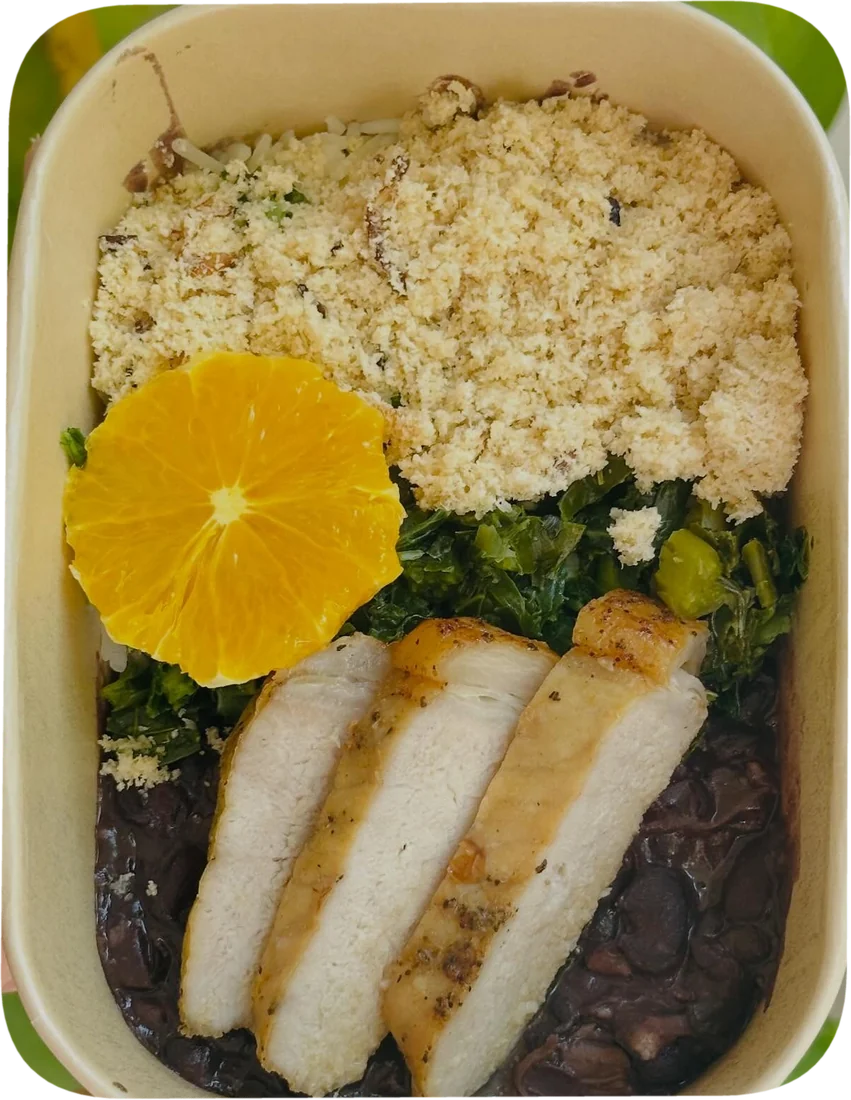
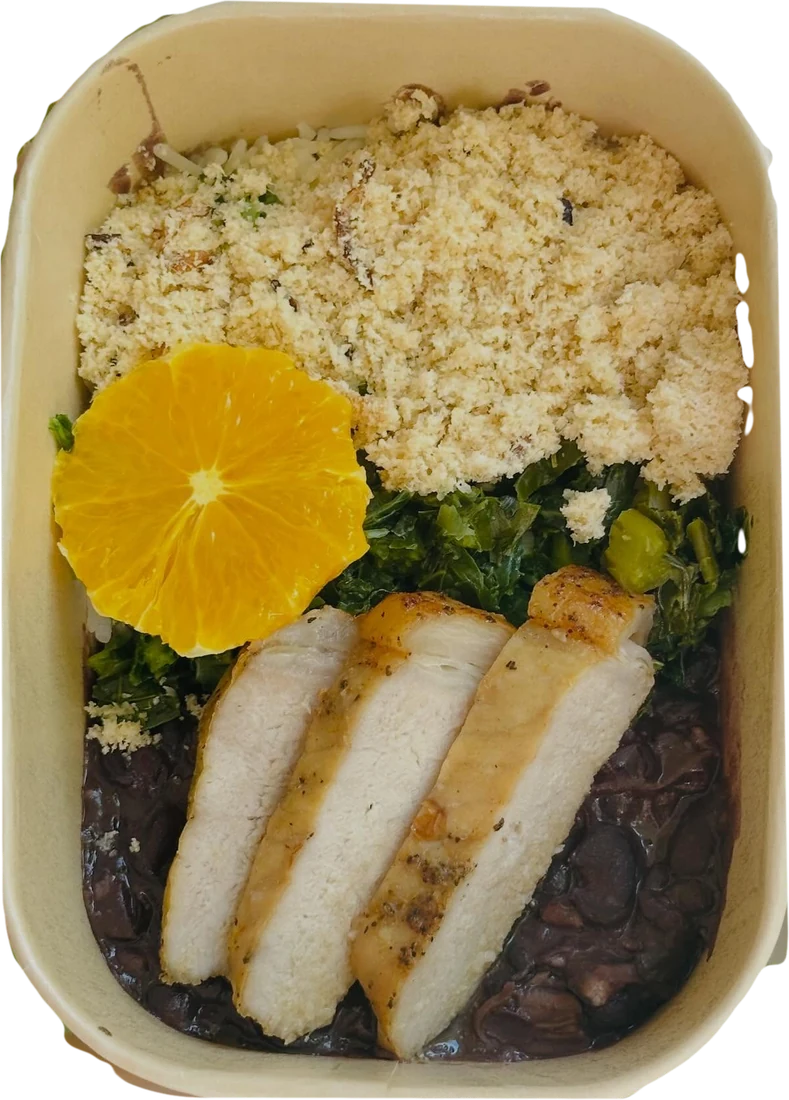
Brazilian Taste: clean cutout edges, lunch box rises from below the fold
Lunch box retraced with its real elliptical corners and a rim key that drops
leaf, hand and wall pixels. Tray and orange slice corners tightened. The lunch
box now starts below the screen and is dragged up onto the band edge instead
of appearing half-visible. Asset versions bumped so cached cutouts refresh.

diff --git a/websites/TruongSon-demos/scrollcraft/builds/brazilian-taste/index.html b/websites/TruongSon-demos/scrollcraft/builds/brazilian-taste/index.html
@@ -12,10 +12,10 @@
 <link rel="preconnect" href="https://fonts.googleapis.com">
 <link rel="preconnect" href="https://fonts.gstatic.com" crossorigin>
 <link href="https://fonts.googleapis.com/css2?family=Instrument+Serif:ital@0;1&family=Inter+Tight:wght@400;500;600&display=swap" rel="stylesheet">
-<link rel="preload" as="image" href="assets/cut-tray.webp">
+<link rel="preload" as="image" href="assets/cut-tray.webp?v=3">
 <link rel="preload" as="image" href="assets/126-bowls-overhead.jpg">
-<link rel="stylesheet" href="liquid-glass.css?v=2">
-<link rel="stylesheet" href="site.css?v=2">
+<link rel="stylesheet" href="liquid-glass.css?v=3">
+<link rel="stylesheet" href="site.css?v=3">
 </head>
 <body>
 <a class="skip" href="#close">Skip to ordering</a>
@@ -50,12 +50,12 @@
   <div class="tray" id="tray" aria-hidden="true">
     <div class="tray-shadow"></div>
     <div class="tray-drop"><div class="tray-tilt" id="trayTilt"><div class="tray-bob">
-      <img src="assets/cut-tray.webp" alt="" decoding="async">
+      <img src="assets/cut-tray.webp?v=3" alt="" decoding="async">
     </div></div></div>
   </div>
-  <div class="fruit f0" aria-hidden="true"><img src="assets/cut-orange.webp" alt="" decoding="async"></div>
-  <div class="fruit f1" aria-hidden="true"><img src="assets/cut-orange.webp" alt="" decoding="async"></div>
-  <div class="fruit f2" aria-hidden="true"><img src="assets/cut-orange.webp" alt="" decoding="async"></div>
+  <div class="fruit f0" aria-hidden="true"><img src="assets/cut-orange.webp?v=3" alt="" decoding="async"></div>
+  <div class="fruit f1" aria-hidden="true"><img src="assets/cut-orange.webp?v=3" alt="" decoding="async"></div>
+  <div class="fruit f2" aria-hidden="true"><img src="assets/cut-orange.webp?v=3" alt="" decoding="async"></div>
 
   <div class="hero-copy" id="heroCopy">
     <p class="quote">More time for what&nbsp;matters.</p>
@@ -110,7 +110,7 @@
       </ol>
     </div>
   </section>
-  <div class="lift" id="lift" aria-hidden="true"><div class="lift-sh"></div><img src="assets/cut-lunchbox.webp" alt="" decoding="async"></div>
+  <div class="lift" id="lift" aria-hidden="true"><div class="lift-sh"></div><img src="assets/cut-lunchbox.webp?v=3" alt="" decoding="async"></div>
 
   <!-- close -->
   <section class="close" id="close" aria-label="Order">
@@ -125,7 +125,7 @@
 
 <div class="spacer" id="spacer" aria-hidden="true"></div>
 
-<script src="liquid-glass.js?v=2" defer></script>
-<script src="site.js?v=2" defer></script>
+<script src="liquid-glass.js?v=3" defer></script>
+<script src="site.js?v=3" defer></script>
 </body>
 </html>

diff --git a/websites/TruongSon-demos/scrollcraft/builds/brazilian-taste/site.js b/websites/TruongSon-demos/scrollcraft/builds/brazilian-taste/site.js
@@ -222,8 +222,10 @@
       put(li, 'opacity', String(t));
       put(li, 'transform', `translate3d(${r1((1 - t) * -40)}px,0,0)`);
     });
+    // the lunch box starts below the fold and is dragged up onto the band's edge
     const lp = E(seg(p, 0.82, 0.9));
-    const liftY = bandTop - L.liftH * 0.58 - lp * VH * 0.05;
+    const rise = E(seg(p, 0.775, 0.875));
+    const liftY = lerp(VH + 40, bandTop - L.liftH * 0.58, rise) - lp * VH * 0.05;
     put(lift, 'transform', `translate3d(0,${r1(liftY)}px,0) rotate(${r1(-14 + lp * 8)}deg)`);
     show(lift, b > 0 && liftY + L.liftH > 0);
 
